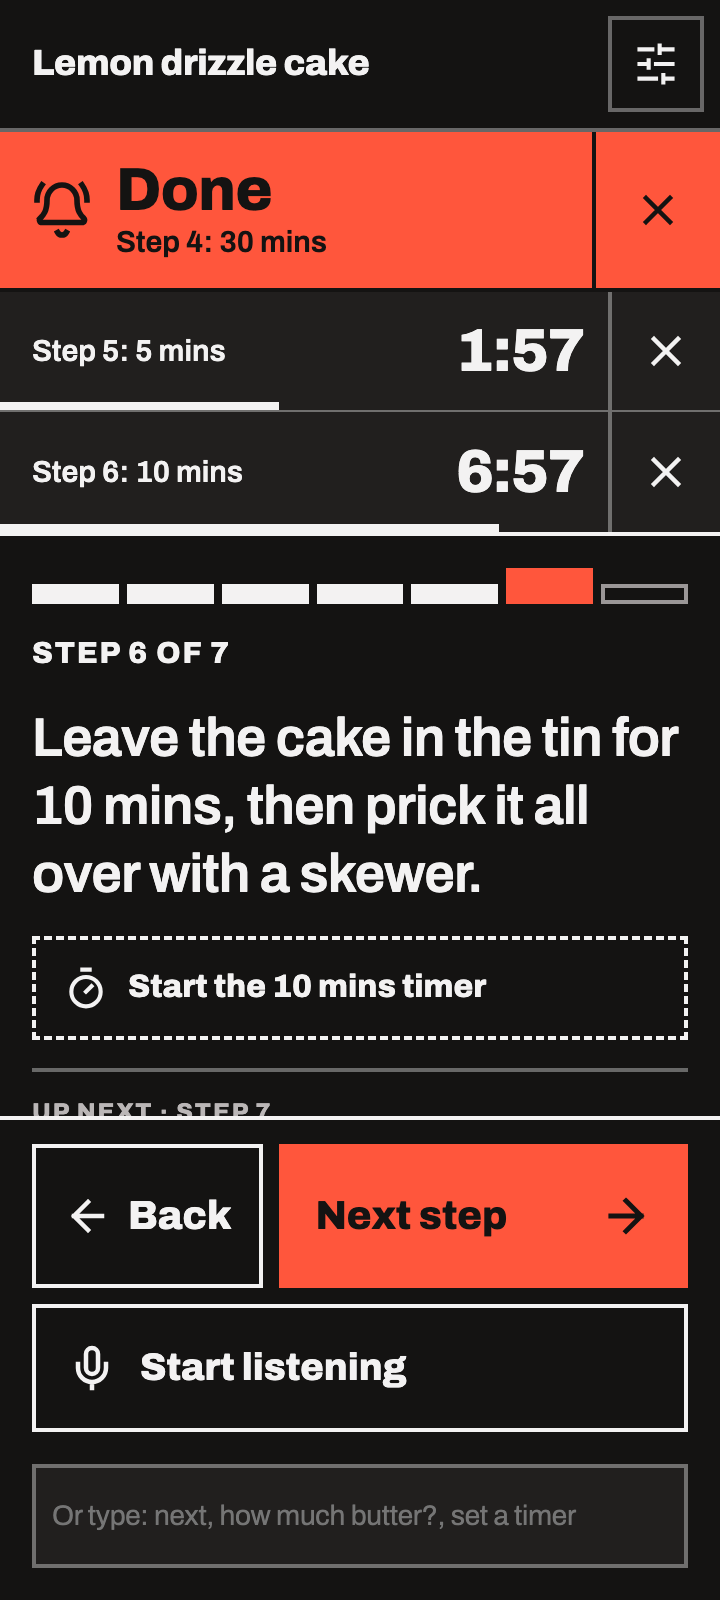
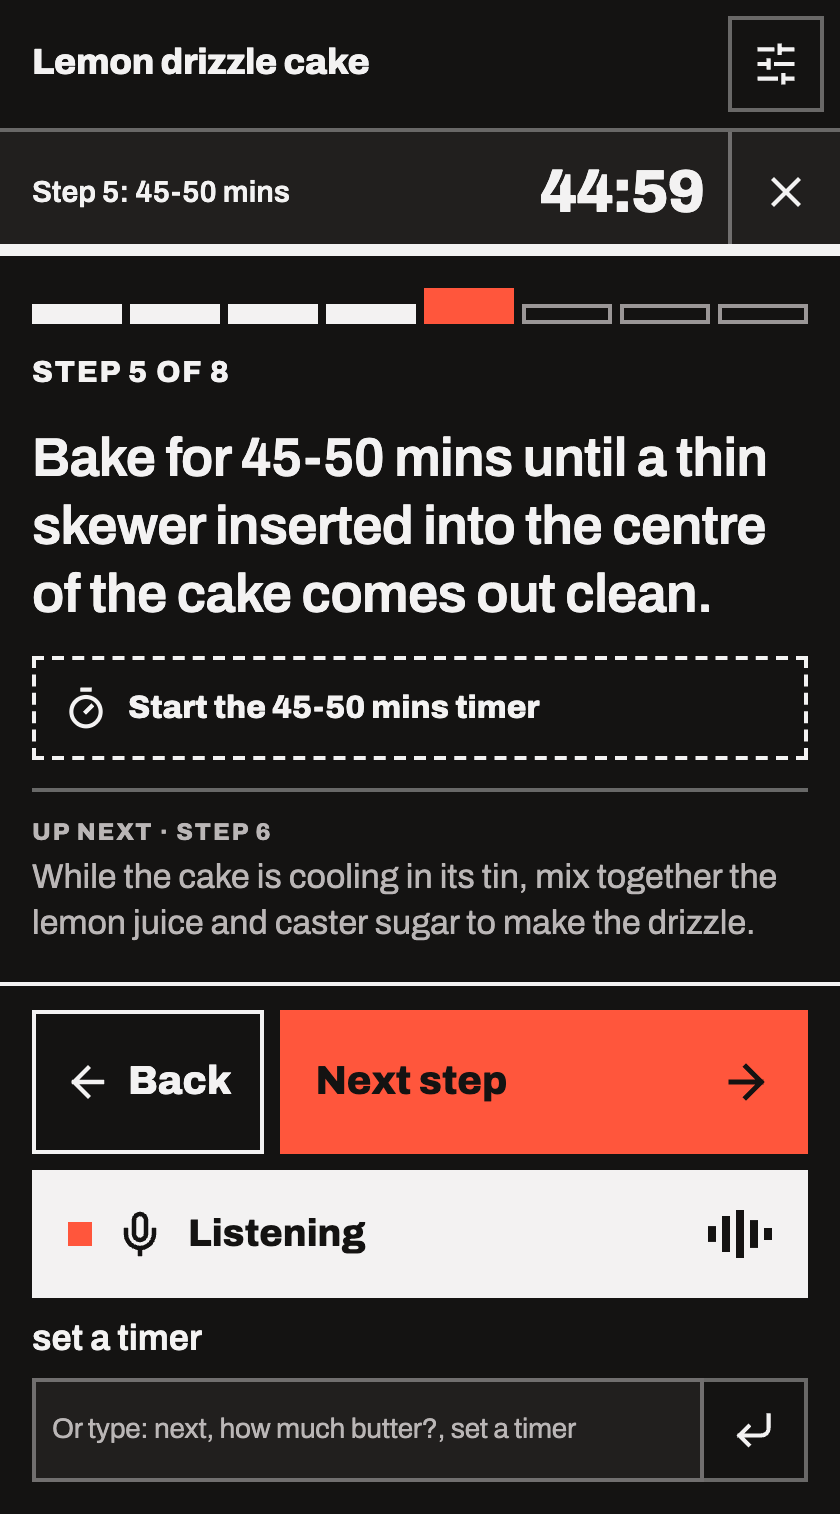
docs(screenshots): retake the README shots on real pages

diff --git a/README.md b/README.md
@@ -6,7 +6,7 @@
 
 <picture>
   <source media="(prefers-color-scheme: dark)" srcset="docs/screenshot-dark.png" />
-  <img src="docs/screenshot-light.png" width="360" alt="Recipe Mode side panel on step 6 of 7 of a lemon drizzle cake: a finished 30 minute timer shown as a red Done band, two running timers with countdown bars, the step in large type, and Back, Next step and Start listening controls docked at the bottom." />
+  <img src="docs/screenshot-light.png" width="420" alt="Recipe Mode side panel on step 5 of 8 of a lemon drizzle cake: the step's 45-50 mins timer pinned at the top at 45:00, the step in large type with a Start the 45-50 mins timer button, the next step previewed below, and Back, Next step and a Listening microphone bar docked at the bottom." />
 </picture>
 
 </div>

diff --git a/docs/store-listing.md b/docs/store-listing.md
@@ -57,7 +57,7 @@ Support: github.com/dgr8akki/recipe-mode/issues. Open source under the MIT licen
 
 ### Screenshots
 
-Five 1280x800 shots, a 440x280 tile and a 1400x560 marquee are staged under `screenshots/recipe-mode/store/` in the reports folder and need a reshoot after the layout changes in this release (tracked separately).
+Five 1280x800 shots (with 640x400 copies), a 440x280 tile and a 1400x560 marquee are under `screenshots/recipe-mode/store/` in the reports folder, retaken on 1 October 2026 against this release on a real recipe page. The README beside them has the caption for each.
 
 ### URLs
 
